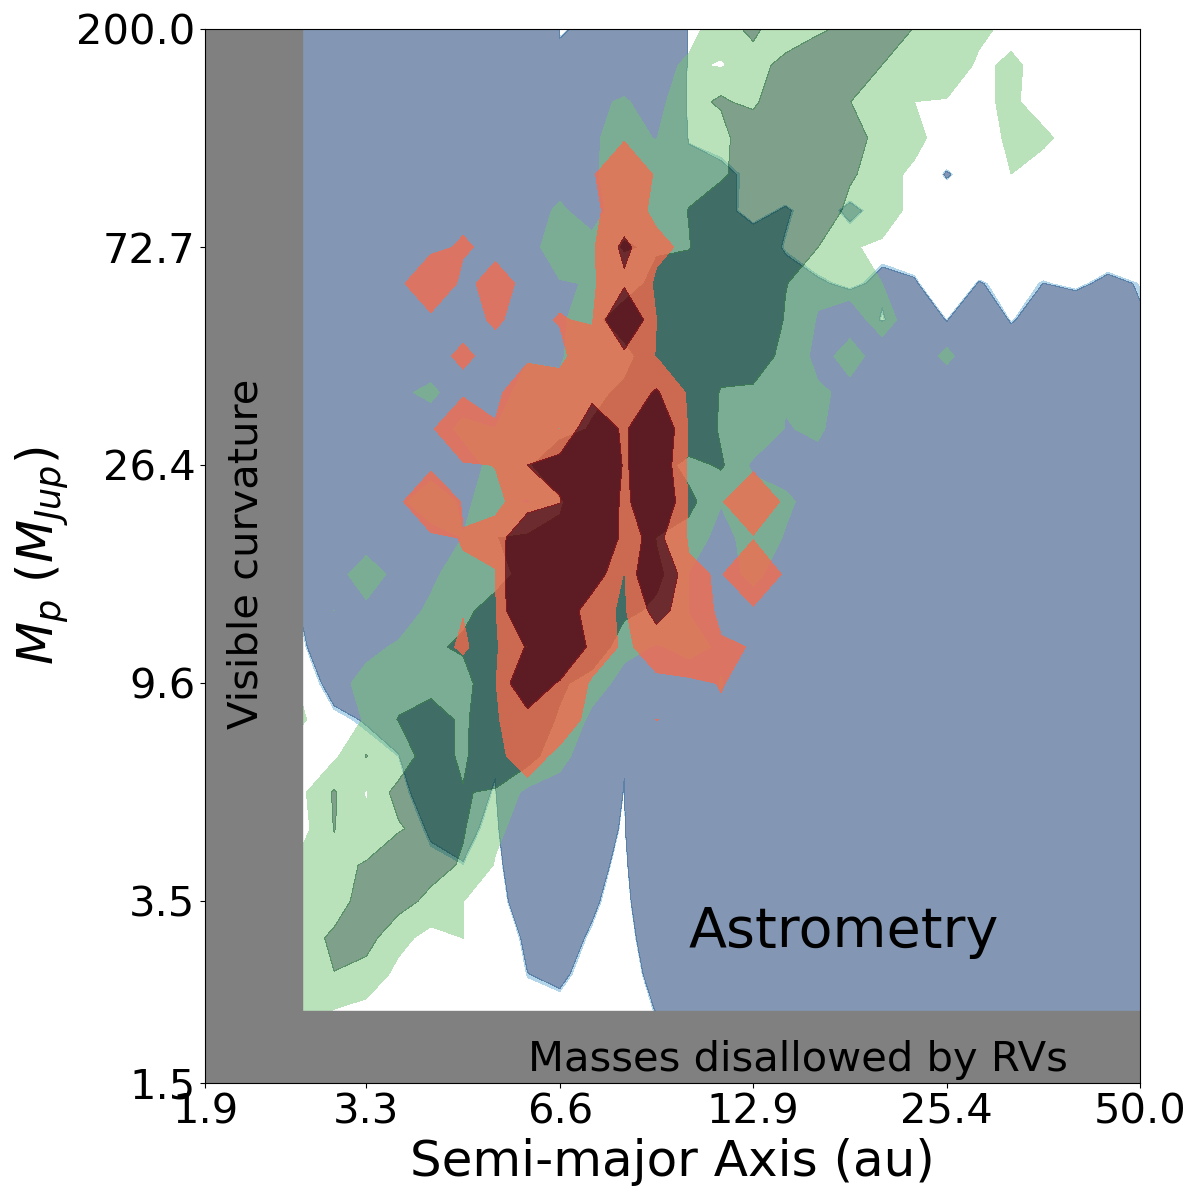
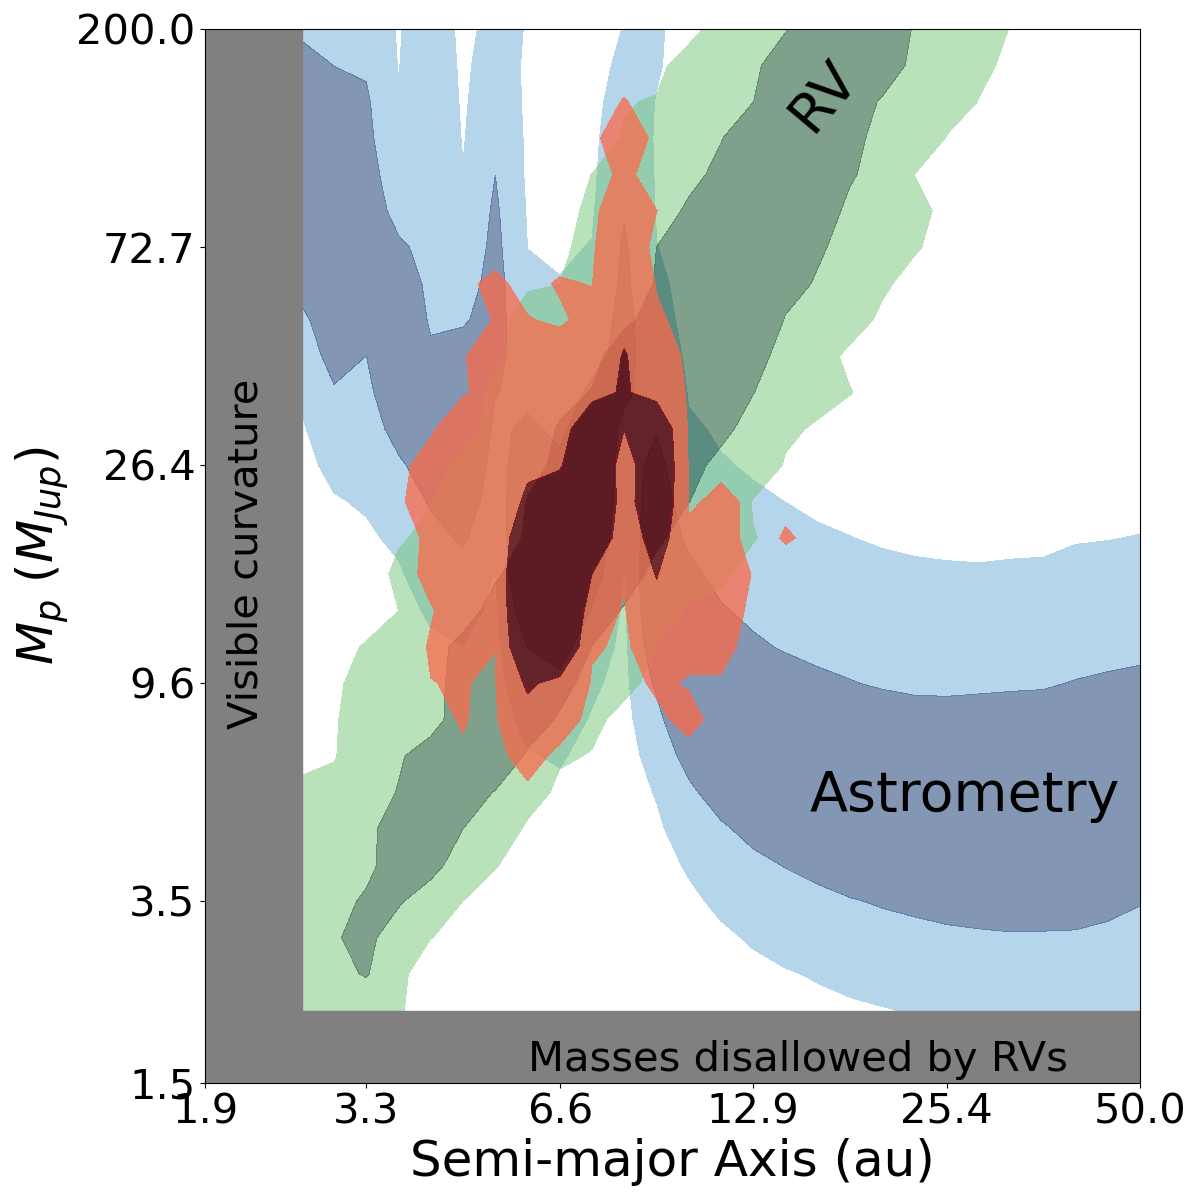
Folder of data plus updates
Former-commit-id: 53e6e4f441c7e1399d87c1617d3692f433507024 [formerly 8c4f80f4f2f3574bcda054ed5094511527c963e6] [formerly de4bf7e3f65705e8acd6af14c0170e2c65fd9bb6] [formerly 48ff006946c13c01b7ac5acff2a121317079392a [formerly 88dc0bb774f45d58e6f573230a93783e366aafb0] [formerly de4bf7e3f65705e8acd6af14c0170e2c65fd9bb6 [formerly 0eafb84c6db9f722fa1311709d60b9f1e7067966]]]
Former-commit-id: f481c5a1b810a13a1eab4c181affde7232f0bc73 [formerly 330e4c9a342d1040d3e6d2158eb55c9613f60578] [formerly 896f6612c20a3453e223aef80ba88942a4f9d8d1 [formerly f327c06324830fc282ead8e7f91a9a19e7344877]]
Former-commit-id: 2479b422a1f28b81a1684f11d4448deeebabbda7 [formerly 896f6612c20a3453e223aef80ba88942a4f9d8d1]
Former-commit-id: dbaa7802c9f7688d51e4bf4e03b59bcb1eb6eb6a

diff --git a/analysis/giant_class.py b/analysis/giant_class.py
@@ -89,8 +89,6 @@ class Giant(object):
         self.a_inds_plot = np.digitize(self.a_list, bins = a_bins_plot)
         self.m_inds_plot = np.digitize(self.m_list, bins = m_bins_plot)
         
-    
-        # self.msini_list = self.m_list*self.sini_list
         
         
         return
@@ -107,7 +105,13 @@ class Giant(object):
         
         # Why three arrays to store probabilities? self.prob_list_rv is a 1D list that will be multiplied with its astrometry counterpart to get a the total (rv+astro) marginalized posterior. rv_bounds_array is a 2D array of the rv probabilities, binned according to a and M. It will be used to find the 1-sigma bounds on a an M. rv_plot_array is similar, but it will be used for plotting the 2D probability surface instead of finding bounds. The only difference between the last two is the number of points used to create the 2D grid.
         
-        self.prob_list_rv = np.exp(-(dot_term_list + dotdot_term_list)/2)
+        chi_sq = dot_term_list + dotdot_term_list
+        
+        self.chi_sq_list_rv = chi_sq
+        
+        self.prob_list_rv = np.exp(-(chi_sq)/2)
+        
+
         # Weird situation with a single NaN showing up here. It may have come from the Kepler solver somehow, but I just set all NaNs to 0
         np.nan_to_num(self.prob_list_rv, copy=False)
         
@@ -159,6 +163,10 @@ class Giant(object):
         T_anom_array = np.repeat(T_anom_array, 2, axis=1)
         T_anom_array = np.repeat(T_anom_array, 100, axis=2)
 
+        
+        ### Just to send to Erik
+        chi_sq_list = []
+        ###
         
         prob_list = []
         astro_bounds_array = np.zeros((self.grid_num, self.grid_num))
@@ -232,6 +240,7 @@ class Giant(object):
             ########################## Angular Velocities ###########################
             
             ##################### Wrong way to get pm_anom ############################
+            ## I take the scalar r_dot and multiply by rot_vec. Since rot_vec is obtained using r_vec, this step implicitly assumed that v and r are in the same direction, which is WRONG.
             # r_dot_pl = hlp.r_dot(T_prog, a*c.au.cgs.value, per*(24*3600), e)
             #
             # r_dot_star = r_dot_pl * ((m*c.M_jup.cgs.value)/(self.m_star*c.M_sun.cgs.value))
@@ -249,11 +258,14 @@ class Giant(object):
 
             rotated_v_vec = np.matmul(rot_matrix, v_vec_star).squeeze()
             rotated_v_vec = np.moveaxis(rotated_v_vec, 2, 0)
-
+            
+            # pm anom values for both Hipparcos and Gaia
             pm_anom_both = ((rotated_v_vec)[:-1] / self.d_star * (206265*1e3*3.15e7)).mean(axis= -2) # (cm/s / cm)*206265*1e3*3.15e7 = mas/yr
             
             
-            # We want only Gaia's x&y components, so we take the second element of the second axis
+            # pm_anom_both has shape (2,2): (x&y components, Hip/Gaia)
+            # We want only Gaia's x&y components, so we take the whole first axis, and only the second element of the second axis
+
             pm_anom_gaia = pm_anom_both[:, 1]
             
             
@@ -285,8 +297,14 @@ class Giant(object):
             m_i_plot = self.m_inds_plot[i]
             astro_plot_array[m_i_plot, a_i_plot] += prob
             
+            ## Just to send to Erik
+            chi_sq_list.append(chi_square)
+            #####
             prob_list.append(prob)
-    
+        
+        ### Just for sending to Erik
+        self.chi_sq_list_astro = np.array(chi_sq_list)
+        ###
         self.prob_list_astro = np.array(prob_list)
         
         self.astro_bounds_array = astro_bounds_array

diff --git a/analysis/hd191939_plot.py b/analysis/hd191939_plot.py
@@ -39,7 +39,7 @@ if __name__ == "__main__":
     
     hd191939 = ['HD191939', 0.807, 0.114, 0.006, -6e-5, 1.9e-5, 18.62, pm_anom_data, pm_anom_data_err]
     my_planet = gc.Giant(*hd191939)
-    my_planet.make_arrays(a_lim = a_lim, m_lim = m_lim, grid_num = grid_num, num_points = int(1e6), plot_num = plot_num)
+    my_planet.make_arrays(a_lim = a_lim, m_lim = m_lim, grid_num = grid_num, num_points = int(1e7), plot_num = plot_num)
 
     print('made the arrays')
     
@@ -59,10 +59,28 @@ if __name__ == "__main__":
     post_astro_plot = (post_astro_plot*prior_grid)/((post_astro_plot*prior_grid).sum())
     post_tot_plot   = (post_tot_plot*prior_grid)/((post_tot_plot*prior_grid).sum())
     
-    t_contours_astro = hlp.contour_levels(post_astro_plot, [3])
+    t_contours_astro = hlp.contour_levels(post_astro_plot, [1,2])
     t_contours_rv = hlp.contour_levels(post_rv_plot, [1,2])
     t_contours_tot = hlp.contour_levels(post_tot_plot, [1,2])
     
+    np.save('save_data/a_list', my_planet.a_list)
+    np.save('save_data/m_list', my_planet.m_list)
+    np.save('save_data/e_list', my_planet.e_list)
+    np.save('save_data/i_list', my_planet.i_list)
+    np.save('save_data/om_list', my_planet.om_list)
+    np.save('save_data/M_anom_list', my_planet.M_anom_list)
+    
+    np.save('save_data/chi_sq_list_rv', my_planet.chi_sq_list_rv)
+    np.save('save_data/chi_sq_list_astro', my_planet.chi_sq_list_astro)
+    np.save('save_data/prob_list_rv', my_planet.prob_list_rv)
+    np.save('save_data/prob_list_astro', my_planet.prob_list_astro)
+    
+    
+    np.save('save_data/post_rv', post_rv)
+    np.save('save_data/post_astro', post_astro)
+    np.save('save_data/post_tot', post_tot)
+
+
     
     # np.save('post_tot_trimmed', post_tot_plot)
     print(hlp.bounds_1D(post_tot_plot, [m_lim, a_lim], interp_num = 1e4))
@@ -107,8 +125,8 @@ if __name__ == "__main__":
     ########################################
     
     
-    # plt.text((19/32)*plot_num, (7/8)*plot_num, 'RV', size=region_label_size, rotation=50)
-    plt.text((1/2)*plot_num, (1/8)*plot_num, 'Astrometry', size=region_label_size)
+    plt.text((19/32)*plot_num, (7/8)*plot_num, 'RV', size=region_label_size, rotation=50)
+    plt.text((5/8)*plot_num, (1/4)*plot_num, 'Astrometry', size=region_label_size)
     
     plt.text((1/3)*plot_num, (1/3)*(min_index_m-1), 'Masses disallowed by RVs', size=restricted_region_label_size)
     plt.text((1/3)*(min_index_a-1), (1/3)*plot_num, 'Visible curvature', size=restricted_region_label_size, rotation=90)

diff --git a/analysis/helper_functions.py b/analysis/helper_functions.py
@@ -28,7 +28,7 @@ def P(a, Mtotal):
 
 def rot_matrix(i, om, Om):
     """
-    This is P3*P2*P1 from Murray & Dermott. It is not given explicitly in the text. The multiply it immediately by r*[cos(f), sin(f), 0]
+    This is P3*P2*P1 from Murray & Dermott. It is not given explicitly in the text. They multiply it immediately by r*[cos(f), sin(f), 0]
     because this gives the projection of position onto the sky. However, we also need the projection of velocity, so we need the matrix
     pre-multiplication by the position vector.
     """
@@ -377,7 +377,8 @@ def bounds_1D(prob_array, value_spaces, interp_num = 1e4):
         array_1D = prob_array.sum(axis=i)
         grid_num = len(array_1D)
         
-        sig1 = contour_levels_1D(array_1D, [2])[0]
+        # This gives only the 2-sigma, so that we get the 2-sigma limits at the end
+        sig2 = contour_levels_1D(array_1D, [2])[0]
         
         # Interpolate between the points to get a finer spacing of points. This allows for more precise parameter estimation.
         func = sp.interpolate.interp1d(range(grid_num), array_1D)
@@ -388,11 +389,11 @@ def bounds_1D(prob_array, value_spaces, interp_num = 1e4):
         # This is analogous to the original array_1D, but finer
         interp_vals = func(fine_array)
         
-        # This is a shaky step. I'm just looking for places where the function value is really close to the probability corresponding to 1-sigma. But from what I can tell, this will fall apart for multimodal distributions, and maybe in other cases too. I use the 'take' method to pick out the first and last indices.
-        inds_1sig = np.where(abs(interp_vals - sig1) < 1e-2*sig1)[0].take((0,-1))
+        # This is a shaky step. I'm just looking for places where the function value is really close to the probability corresponding to 2-sigma. But from what I can tell, this will fall apart for multimodal distributions, and maybe in other cases too. I use the 'take' method to pick out the first and last indices.
+        inds_2sig = np.where(abs(interp_vals - sig2) < 1e-2*sig2)[0].take((0,-1))
         
         # value_bounds is a tuple of actual values, not indices
-        value_bounds = index2value(inds_1sig, (0, interp_num-1), value_spaces[::-1][i])
+        value_bounds = index2value(inds_2sig, (0, interp_num-1), value_spaces[::-1][i])
         
         bounds_list.append(value_bounds)
         

diff --git a/analysis/constants.py b/analysis/constants.py
@@ -69,9 +69,9 @@ gaia_mid = gaia_times.mean()
 baseline = gaia_mid - hip_mid
 
 # The proper motions and errors (mas/yr) in the order [Hipparcos, Gaia, HG]
-hdul = ap.io.fits.open('../data/HGCA_vDR2.fits')
+# hdul = ap.io.fits.open('../data/HGCA_vDR2.fits')
 
-# hdul = ap.io.fits.open('../data/HGCA_vEDR3.fits')
+hdul = ap.io.fits.open('../data/HGCA_vEDR3.fits')
 data_df = Table(hdul[1].data).to_pandas()
 
 
@@ -79,9 +79,9 @@ hdul.close()
 
 star_line = data_df.query('gaia_source_id == {}'.format(star_id))
 
-pd.set_option('display.max_columns', None)
-print(star_line)
-dfd
+# pd.set_option('display.max_columns', None)
+# print(star_line)
+# dfd
 
 ra_array = star_line[['pmra_hip', 'pmra_gaia', 'pmra_hg']].stack().to_list()
 ra_err_array = star_line[['pmra_hip_error', 'pmra_gaia_error', 'pmra_hg_error']].stack().to_list()
@@ -108,18 +108,18 @@ print(pm_anom_data, pm_anom_data_err)
 ### Plotting proper motions ###
 print(ra_array, dec_array)
 print(ra_err_array, dec_err_array)
-
-import matplotlib.pyplot as plt
-
-plt.errorbar(ra_array[0], dec_array[0], xerr = ra_err_array[0], yerr = dec_err_array[0], label='Hip')
-plt.errorbar(ra_array[1], dec_array[1], xerr = ra_err_array[1], yerr = dec_err_array[1], label='Gaia')
-plt.errorbar(ra_array[2], dec_array[2], xerr = ra_err_array[2], yerr = dec_err_array[2], label='HG')
-
-plt.xlabel(r'$PM_{RA}$ (mas/yr)')
-plt.ylabel(r'$PM_{Dec}$ (mas/yr)')
-
-plt.legend()
-plt.show()
+#
+# import matplotlib.pyplot as plt
+#
+# plt.errorbar(ra_array[0], dec_array[0], xerr = ra_err_array[0], yerr = dec_err_array[0], label='Hip')
+# plt.errorbar(ra_array[1], dec_array[1], xerr = ra_err_array[1], yerr = dec_err_array[1], label='Gaia')
+# plt.errorbar(ra_array[2], dec_array[2], xerr = ra_err_array[2], yerr = dec_err_array[2], label='HG')
+#
+# plt.xlabel(r'$PM_{RA}$ (mas/yr)')
+# plt.ylabel(r'$PM_{Dec}$ (mas/yr)')
+#
+# plt.legend()
+# plt.show()
 
 
 

diff --git a/analysis/gamma_dist_synth.py b/analysis/gamma_dist_synth.py
@@ -133,7 +133,7 @@ label_size = 30
 title_size = 35
 tick_num = 4
 #
-num_points = int(1e4)
+num_points = int(1e5)
 grid_num = int(500)
 a_lim = (1.9, 1e2)
 m_lim = (1.5, 1e2)
